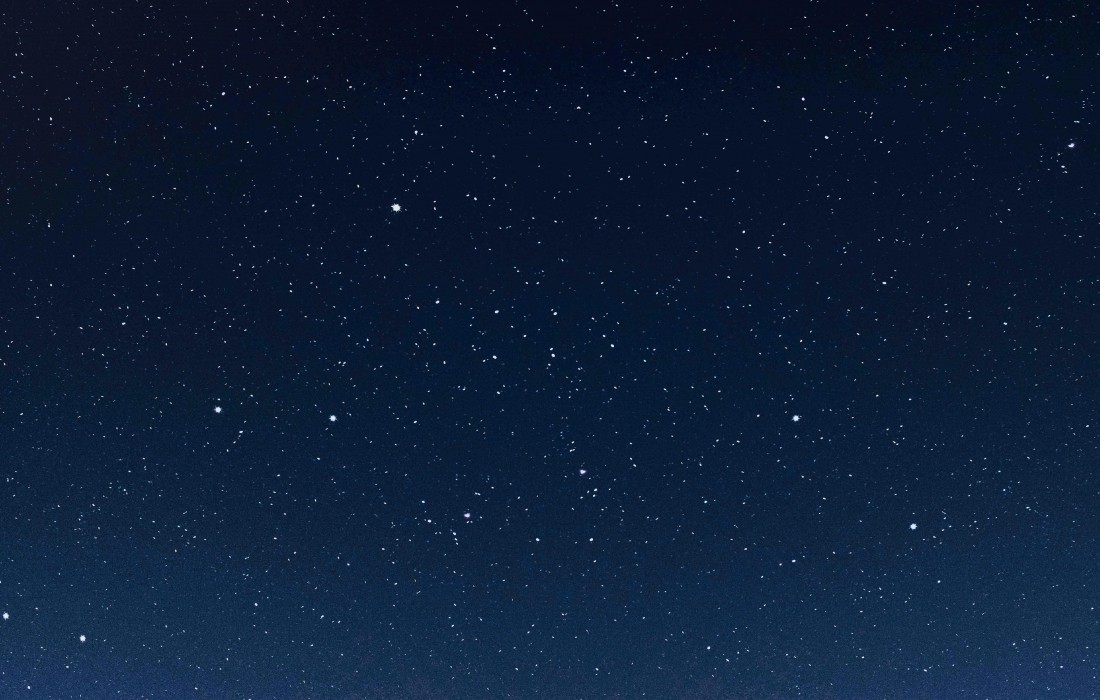
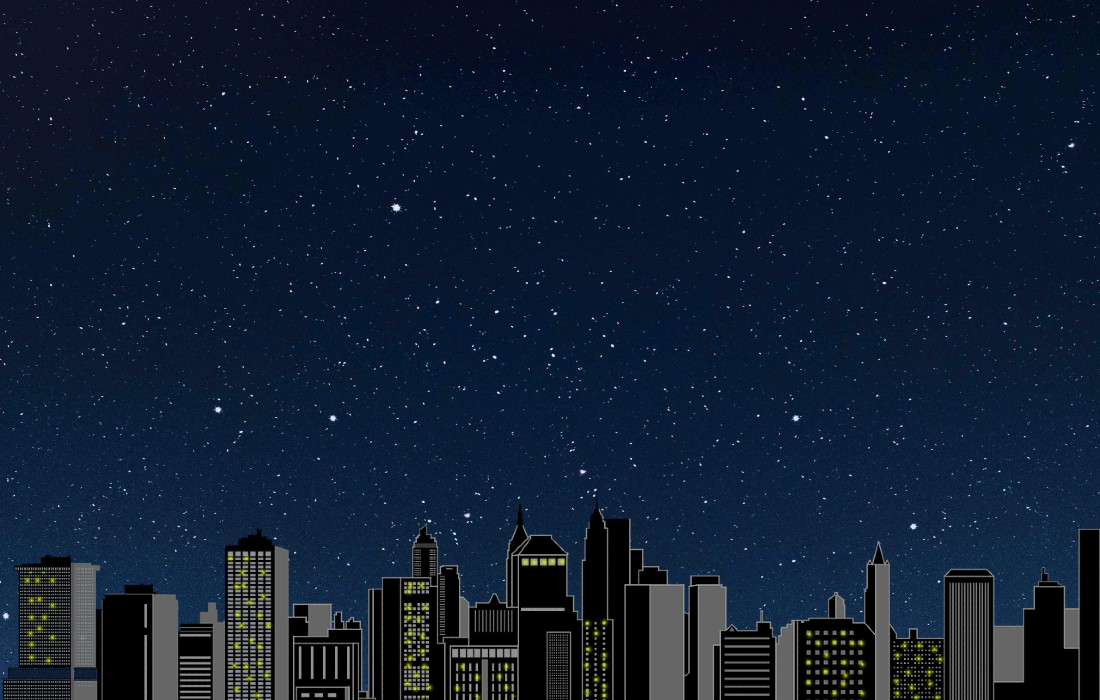
Added basic obstacle functionallity. Bug in obstacle movement and generation.

Changed region(s): [[0.0, 0.72, 1.0, 1.0]]

diff --git a/main.py b/main.py
@@ -1,22 +1,60 @@
+from global_variables import *
 import pygame
 from User_character import Character
 from Obstacles import Helicopter, Building, Present
+import time
 import random
 
 #TODO: Make obtacle logic
-#TODO: Change assets
 #TODO: Make background music track
 
 def isTerminal():
     for event in pygame.event.get():
         if event.type == pygame.QUIT:
             return True
-    #Colision
+    
+    if user.lifes <= 0:
+        return True
+    
+    return False
+
+
+def islifeLost():
+    #Colision with object
+    #Colision with floor or ceeling
+    if user.y < 13.0 or user.y == screen_height-user.height:
+        user.lifes -= 1
+        if user.lifes == 0:
+            return True
+        time.sleep(1)
+        user.x, user.y = user.initial_x, user.initial_y
+        return True
+    
     return False
 
 
 def create_obstacles():
-    global obstacles_in_scene
+    helicopter_height = str(random.randint(0,3))
+    building_height = str(random.randint(0,3))
+    #showPresent = True if random.randint(0,5) == 3 else False
+
+    if helicopter_height == "3" and building_height == "3":
+        if random.randint(0,1) == 0:
+            helicopter_height = "2"
+        else:
+            building_height = "2"
+
+    sentinel_helicopter=obstacles_in_scene[0]
+    #sentinel_present=obstacles_in_scene[1] if showPresent
+    sentinel_building=obstacles_in_scene[2]
+
+    sentinel_helicopter = str(sentinel_helicopter)
+    #sentinel_present = str(sentinel_present)
+    sentinel_building = str(sentinel_building)
+
+    obstacles_in_scene[0].append(Helicopter(helicopter_height))
+    obstacles_in_scene[1].append(Building(helicopter_height))
+
 
         
 
@@ -29,18 +67,63 @@ def move():
             user.y += speed
 
 
+def move_scene():
+    #Move obstacles
+    if len(obstacles_in_scene[0]) > 0:
+        for helicopter in obstacles_in_scene[0]:
+            helicopter.x += obstacle_speed
+    
+    if len(obstacles_in_scene[1]) > 0:
+        for present in obstacles_in_scene[1]:
+            #screen.blit(present, (present.x, present.y))
+            pass
+    
+    if len(obstacles_in_scene[2]) > 0:
+        for building in obstacles_in_scene[2]:
+            building.x += obstacle_speed
+
+
 def load_window():
     screen.blit(background_image, (0,0))
     screen.blit(user_character, (user.x, user.y))
+    
+    if len(obstacles_in_scene[0]) > 0:
+        for helicopter in obstacles_in_scene[0]:
+            screen.blit(helicopter.helicopter_obstacle, (helicopter.x, helicopter.y))
+    
+    if len(obstacles_in_scene[1]) > 0:
+        for present in obstacles_in_scene[1]:
+            #screen.blit(present, (present.x, present.y))
+            pass
+    
+    if len(obstacles_in_scene[2]) > 0:
+        for building in obstacles_in_scene[2]:
+            screen.blit(building.building_obstacle, (building.x, building.y))
+
     pygame.display.update()
 
 
 def game():
+    global current_obstacle_frame_separation
+    global obstacle_frame_separation
+    #time.sleep(2)
     while not isTerminal():
         clock.tick(fps)
-        create_obstacles()
+        
+        if current_obstacle_frame_separation == obstacle_frame_separation:
+            create_obstacles()
+            current_obstacle_frame_separation = 0
+        
+        current_obstacle_frame_separation += 1
         move()
+        #move_scene()
+        islifelost_var = islifeLost()
         load_window()
+        
+        if islifelost_var and user.lifes != 0:
+            time.sleep(1)
+        
+        print(len(obstacles_in_scene))
 
     pygame.quit()
 
@@ -50,12 +133,11 @@ if __name__ == "__main__":
 
     #Window adjustments
     pygame.display.set_caption("XMAS ADVENTURES")
-    screen_width, screen_height = 1100, 700
     screen = pygame.display.set_mode((screen_width, screen_height))
 
     #Set scene
     user = Character("anmabe", "melchor")
-    user_character = user_image = pygame.image.load(user.character_image)
+    user_character = pygame.image.load(user.character_image)
     player = pygame.Rect(user.x, user.y, user.width, user.height)
     background_image = pygame.image.load('assets/images/background.jpg')
 
@@ -64,10 +146,5 @@ if __name__ == "__main__":
     #Background music
     #pygame.mixer.music.load('foo.mp3')
     #pygame.mixer.music.play(-1)
-
-    fps = 60
-    speed = 5
-    starting_obstacle_separation = 600
-    obstacles_in_scene = []
 
     game()

diff --git a/obstacles.py b/obstacles.py
@@ -1,25 +1,28 @@
+from global_variables import *
 import pygame
 
 class Helicopter():
     def __init__(self, height):
         self.__collision_sound = pygame.mixer.Sound("assets/music/crash_sound_effect.mp3")
-        self.x = 1100
+        self.x = screen_width
         self.y = 0
         self.width = 100
 
         #set of heights = 100, 150, 200, 350
-        if height == "one":
+        if height == "0":
             self.height = 100
             self.image =  "assets/images/helicopter_one.png"
-        elif height == "one":
+        elif height == "1":
             self.height = 150
             self.image =  "assets/images/helicopter_two.png"
-        elif height == "one":
+        elif height == "2":
             self.height = 200
             self.image =  "assets/images/helicopter_three.png"
-        elif height == "one":
+        elif height == "3":
             self.height = 350
             self.image =  "assets/images/helicopter_four.png"
+        
+        self.helicopter_obstacle = pygame.image.load(self.image)
 
     def play_sound(self):
         pygame.mixer.Sound.play(self.__collision_sound)
@@ -31,37 +34,36 @@ class Building():
         self.width = 100
 
         #set of heights = 100, 150, 200, 350
-        if height == "one":
+        if height == "0":
             self.height = 100
             self.image =  "assets/images/building_one.png"
-        elif height == "one":
+        elif height == "1":
             self.height = 150
             self.image =  "assets/images/building_two.png"
-        elif height == "one":
+        elif height == "2":
             self.height = 200
             self.image =  "assets/images/building_three.png"
-        elif height == "one":
+        elif height == "3":
             self.height = 350
             self.image =  "assets/images/building_four.png"
 
-        self.x = 1100
-        self.y = 700 - self.height
+        self.x = screen_width
+        self.y = screen_height - self.height
+
+        self.building_obstacle = pygame.image.load(self.image)
 
     def play_sound(self):
         pygame.mixer.Sound.play(self.__collision_sound)
 
 
-###################################################
-
-
 class Present():
     def __init__(self):
-        self.__coin_sound = pygame.mixer.Sound("assets/music/get_coin_sound_effect.mp3")
+        self.__present_sound = pygame.mixer.Sound("assets/music/get_present_sound_effect.mp3")
         self.image =  "assets/images/present.png"
         self.width = 100
         self.height = 100
-        self.x = 1100
-        self.y = 700 - self.height/2
+        self.x = screen_width
+        self.y = screen_height - self.height/2
     
     def play_sound(self):
-        pygame.mixer.Sound.play(self.__coin_sound)
+        pygame.mixer.Sound.play(self.__present_sound)

diff --git a/user_character.py b/user_character.py
@@ -1,6 +1,9 @@
+from global_variables import *
+
 class Character():
     def __init__(self, username, character):
         self.username = username
+        self.lifes = 5
 
         if(character == "melchor"):
             self.character = "melchor"
@@ -24,4 +27,6 @@ class Character():
         
         self.x = 25
         self.y = 700/2 - self.height
+        self.initial_x = self.x
+        self.initial_y = self.y
             

diff --git a/global_variables.py b/global_variables.py
@@ -1,0 +1,9 @@
+fps = 60
+speed = 5
+obstacle_speed = 5
+screen_width, screen_height = 1100, 700
+
+obstacle_frame_separation = current_obstacle_frame_separation = 300
+
+#Will contain three lists: helicopters, presents, buildings
+obstacles_in_scene = [[], [], []]
